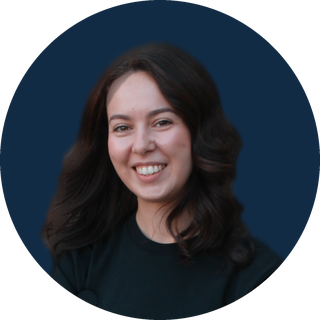
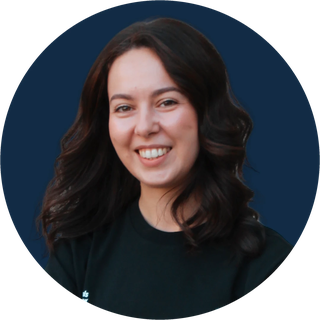
Portrait de Julia : nouvelle photo fournie

diff --git a/notre-equipe.html b/notre-equipe.html
@@ -285,7 +285,7 @@ footer{background:var(--navy-deep);padding:40px 60px;}
       <div class="card-back"><div class="card-back-text">Tout le monde est sympa sauf moi.</div></div>
     </div></div>
     <div class="orga-card"><div class="card-inner">
-      <div class="card-front"><img src="images/equipe/julia.png?v=4" alt="Julia" class="orga-photo" loading="lazy" decoding="async"><div class="orga-name">Julia</div><div class="orga-role">Événementiel</div><div class="orga-role2">Référente prévention &amp; sécurité</div></div>
+      <div class="card-front"><img src="images/equipe/julia.png?v=5" alt="Julia" class="orga-photo" loading="lazy" decoding="async"><div class="orga-name">Julia</div><div class="orga-role">Événementiel</div><div class="orga-role2">Référente prévention &amp; sécurité</div></div>
       <div class="card-back"><div class="card-back-text">Je suis venue par hasard en novembre 2024 et je ne suis jamais repartie.</div></div>
     </div></div>
     <div class="orga-card"><div class="card-inner">
